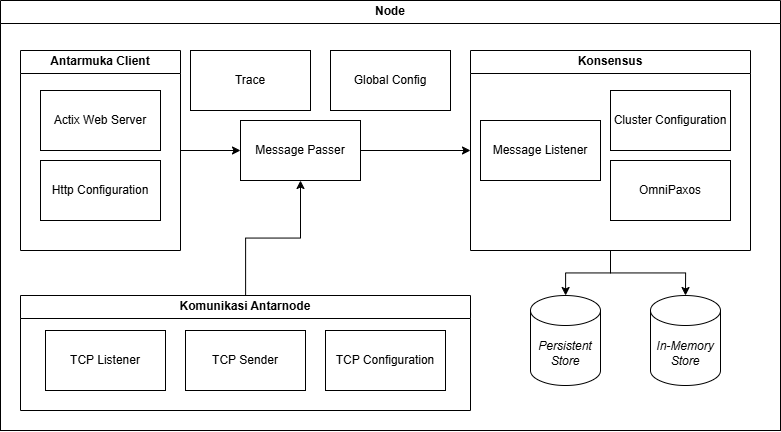
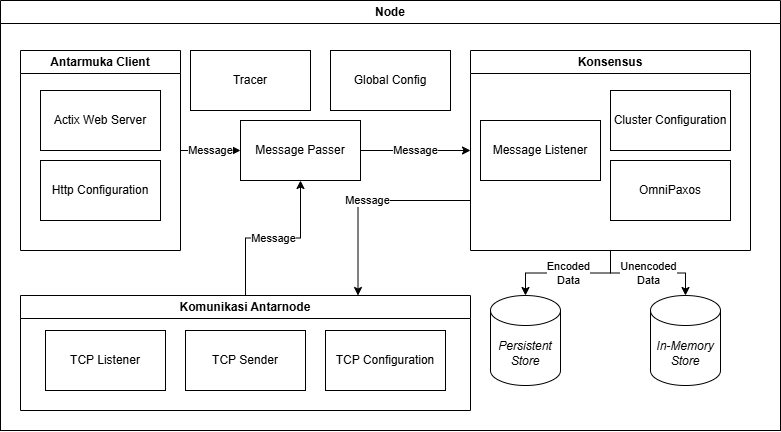
feat: added whole image of system architecture

diff --git a/src/chapters/chapter-3/rancangan/04-03-detail-client-interface.tex b/src/chapters/chapter-3/rancangan/04-03-detail-client-interface.tex
@@ -1,7 +1,9 @@
 \subsubsection{Rancangan Detail Antarmuka Client}
 \label{subsubsection:detail-client-interface}
 
-Antarmuka \textit{client} bertanggung jawab untuk menyediakan akses ke sistem bagi pengguna. Antarmuka ini akan menyediakan fungsi yang dibutuhkan, yaitu \textit{read} dan \textit{write} data. Antarmuka ini juga dapat digunakan pengguna untuk melihat status sistem, seperti status \textit{Node}, status \textit{Cluster}, dokumentasi, dan informasi lainnya yang diperlukan. Antarmuka \textit{client} akan dibuat memanfaatkan protokol HTTP. Alasan dari pemilihan protokol HTTP adalah karena protokol ini sudah umum digunakan dan didukung oleh banyak bahasa pemrograman maupun alat. Selain itu, protokol HTTP juga mudah digunakan dan dapat diakses melalui berbagai platform, termasuk web browser. Dukungan alat terhadap protokol HTTP akan memudahkan pengembangan dan pengujian sistem. Rancangan antarmuka \textit{client} dapat dilihat pada gambar \ref{fig:client-interface-component}.
+Antarmuka \textit{client} bertanggung jawab untuk menyediakan akses ke sistem bagi pengguna. Antarmuka ini akan menyediakan fungsi yang dibutuhkan, yaitu \textit{read} dan \textit{write} data. Antarmuka ini juga dapat digunakan pengguna untuk melihat status sistem, seperti status \textit{Node}, status \textit{Cluster}, dokumentasi, dan informasi lainnya yang diperlukan.
+
+Antarmuka \textit{client} akan dibuat memanfaatkan protokol HTTP. Alasan dari pemilihan protokol HTTP adalah karena protokol ini sudah umum digunakan dan didukung oleh banyak bahasa pemrograman maupun alat. Selain itu, protokol HTTP juga mudah digunakan dan dapat diakses melalui berbagai platform, termasuk web browser. Dukungan alat terhadap protokol HTTP akan memudahkan pengembangan dan pengujian sistem. Dengan menggunakan protokol HTTP, pengembangan dan pengujian sistem akan dilakukan dengan alat yang sudah umum digunakan seperti Postman, curl, dan k6. Selain itu, penggunaan protokol HTTP juga memungkinkan perbandingan dengan sistem lain tanpa perlu mengubah antarmuka yang ada. Rancangan antarmuka \textit{client} dapat dilihat pada gambar \ref{fig:client-interface-component}.
 
 \begin{figure}[ht]
     \centering

diff --git a/src/chapters/chapter-3/rancangan/02-arsitektur-sistem.tex b/src/chapters/chapter-3/rancangan/02-arsitektur-sistem.tex
@@ -12,7 +12,7 @@ Rancangan struktural yang telah dijelaskan pada bagian \ref{subsection:rancangan
 
 Dalam gambaran umum arsitektur sistem, sistem \textit{Key-Value Store} terdistribusi yang dikembangkan adalah \textit{Node}. Dalam \textit{Node} terdapat komponen penyimpanan data yang dapat diakses dan dikelola secara terdistribusi dengan dapat replikasi atau \textit{erasure coding}. Setiap \textit{Node} dapat berkomunikasi dengan \textit{Node} lainnya untuk melakukan konsensus, replikasi data, dan pemulihan data.
 
-Sementara itu, \textit{Data collector} merupakan \textit{script} eksternal yang tidak memiliki peran dalam sistem terdistribusi, namun berfungsi untuk mengumpulkan data eksperimen. Keterhubungan \textit{Data Collector} terbatas pada komponen \textit{testing} yang dapat mengatur konfigurasi dari sistem yang akan diujikan. Detail dari masing-masing komponen akan dijelaskan pada bagian \ref{subsection:detail-komponen}. 
+Sementara itu, \textit{Data collector} merupakan \textit{script} eksternal yang tidak memiliki peran dalam sistem terdistribusi, namun berfungsi untuk mengumpulkan data eksperimen. Keterhubungan \textit{Data Collector} terbatas pada komponen \textit{testing} yang dapat mengatur konfigurasi dari sistem yang akan diujikan. Detail dari masing-masing komponen akan dijelaskan pada bagian \ref{subsection:detail-komponen}. Ilustrasi keseluruhan arsitektur sistem yang memuat semua detail dapat dilihat pada bagian \ref{appendix:detailed-architecture}.
 
 % Arsitektur dari sistem mengasumsikan kebutuhan untuk konsistensi yang tinggi. Untuk mencapai konsistensi tersebut, operasi \textit{write} dilakukan secara \textit{synchronous} dengan distribusi replikasi dan \textit{erasure coding} dianggap selesai ketika nilai ketahanan yang diinginkan sudah tercapai.
 

diff --git a/src/chapters/appendix/1-detailed-architecture.tex b/src/chapters/appendix/1-detailed-architecture.tex
@@ -1,0 +1,12 @@
+\chapter{Detail Arsitektur Sistem}
+\label{appendix:detailed-architecture}
+
+Gambar \ref{fig:detailed-architecture} menunjukkan gambaran detail arsitektur sistem eksperimen yang digunakan dalam penelitian ini. Arsitektur ini mencakup komponen-komponen utama yang berperan dalam pengumpulan data, pengelolaan konsistensi, dan replikasi data antar \textit{Node} seperti yang telah dijelaskan pada bagian \ref{sec:rancangan}
+
+\begin{figure}[ht]
+    \centering
+    \includegraphics[width=\textwidth]{resources/appendix/detailed-architecture.png}
+    
+    \caption{Gambaran Detail Arsitektur Sistem Eksperimen}
+    \label{fig:detailed-architecture}
+\end{figure}

diff --git a/src/chapters/chapter-3/02-rancangan.tex b/src/chapters/chapter-3/02-rancangan.tex
@@ -1,4 +1,5 @@
 \section{Rancangan}
+\label{sec:rancangan}
 
 Bagian ini menjelaskan rancangan sistem yang akan diimplementasikan. Rancangan sistem merujuk pada kebutuhan sistem yang dihasilkan pada bagian \ref{subsection:system-requirements} dan alternatif solusi yang dipilih pada bagian \ref{subsection:alternatif-solusi}. Rancangan sistem ini mencakup struktur sistem, arsitektur sistem, alur transaksi, dan detail komponen yang akan diimplementasikan. Komponen didefinisikan sebagai sebuah unit fungsional yang berdiri sendiri dan dapat disusun.
 

diff --git a/src/chapters/chapter-3/rancangan/04-09-detail-logging.tex b/src/chapters/chapter-3/rancangan/04-09-detail-logging.tex
@@ -5,7 +5,7 @@ Komponen \textit{logging} dan \textit{tracing} bertanggung jawab untuk mencatat 
 
 \begin{figure}[ht]
     \centering
-    \includegraphics[width=0.65\textwidth]{resources/chapter-3/log-management-architecture.png}
+    \includegraphics[width=0.55\textwidth]{resources/chapter-3/log-management-architecture.png}
     \caption{Struktur Komponen Log Management}
     \label{fig:log-management-structure}
 \end{figure}

diff --git a/src/chapters/chapter-3/rancangan/04-08-detail-testing.tex b/src/chapters/chapter-3/rancangan/04-08-detail-testing.tex
@@ -5,7 +5,7 @@ Komponen \textit{testing} bertanggung jawab untuk melakukan pengujian terhadap s
 
 \begin{figure}[ht]
     \centering
-    \includegraphics[width=0.65\textwidth]{resources/chapter-3/testing-architecture.png}
+    \includegraphics[width=0.55\textwidth]{resources/chapter-3/testing-architecture.png}
     \caption{Struktur Komponen Testing}
     \label{fig:testing-structure}
 \end{figure}

diff --git a/src/chapters/chapter-3/01-analisis.tex b/src/chapters/chapter-3/01-analisis.tex
@@ -1,4 +1,5 @@
 \section{Analisis}
+\label{sec:analisis}
 
 Bagian ini menganalisis permasalahan lalu menurunkan kebutuhan sistem yang akan dibangun. Setelah itu, bagian ini juga membandingkan beberapa alternatif solusi yang dapat digunakan untuk menyelesaikan permasalahan tersebut.
 

diff --git a/src/chapters/appendix/appendix.tex b/src/chapters/appendix/appendix.tex
@@ -1,3 +1,3 @@
 \appendix
 
-
+\input{chapters/appendix/1-detailed-architecture.tex}
